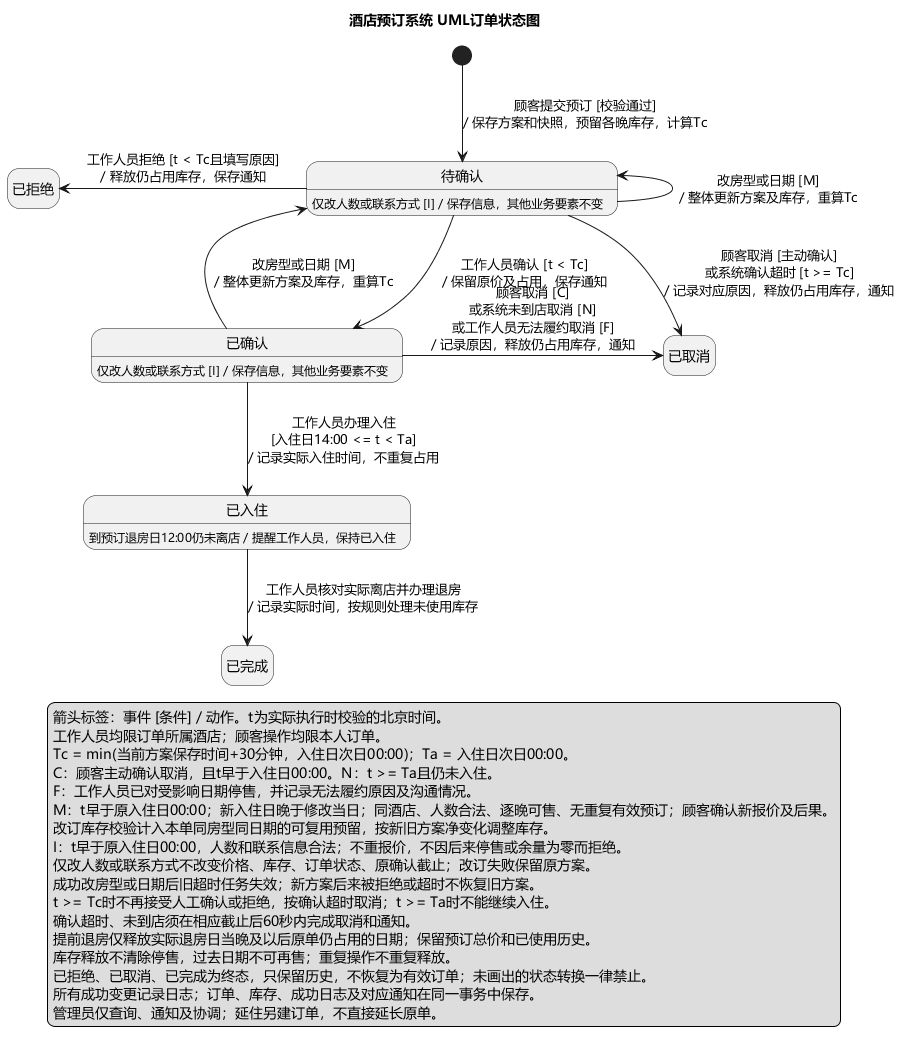
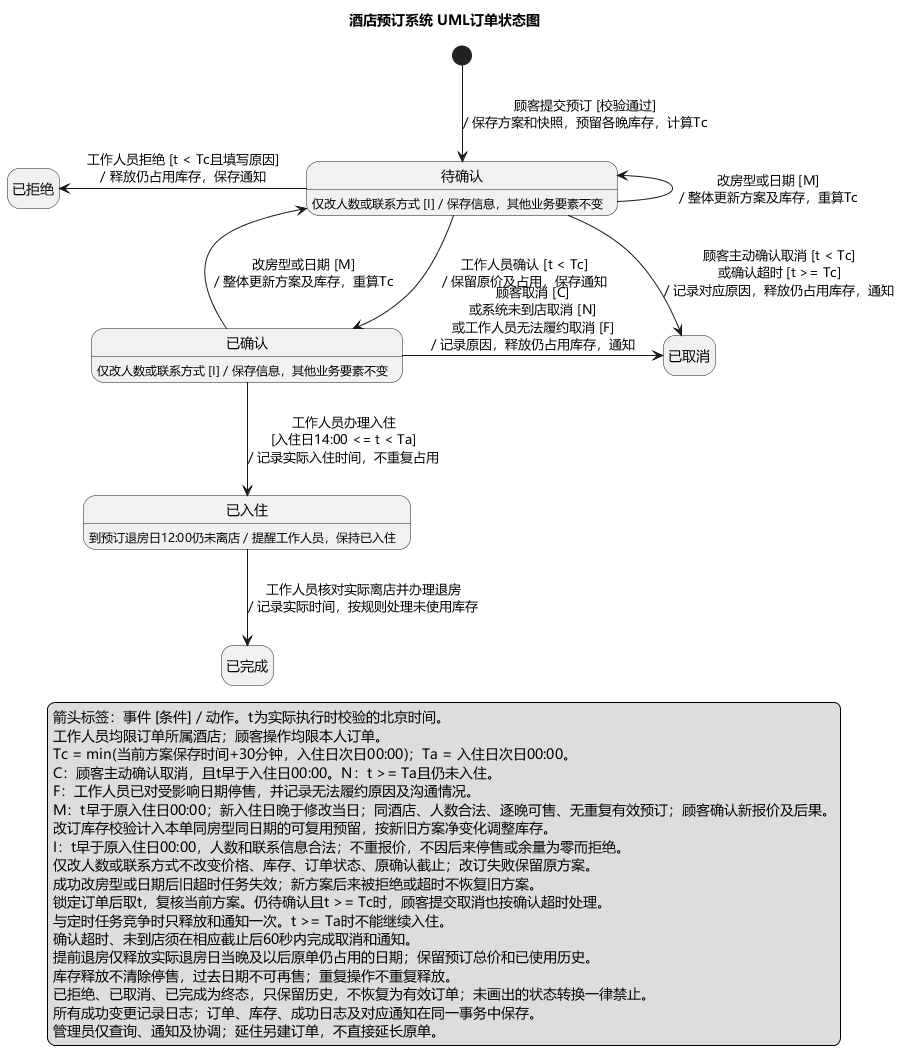
按学生采纳的四项审阅意见修订需求、UML 与界面

diff --git a/实验二/03-UI页面清单与样式.md b/实验二/03-UI页面清单与样式.md
@@ -1,6 +1,7 @@
 # 酒店预订系统UI页面清单与统一样式
 
-版本 V0.12（AI设计初稿，待审查）  
+版本 V0.13（按审阅意见修订）
+
 2026-11-11 更新。UI01 至 UI16 的主要页面及关键状态已绘制为桌面浏览器静态设计稿。
 
 ## 页面清单
@@ -9,8 +10,8 @@
 |---|---|---|---|---|
 | UI01 | 登录 | 三类角色，M01 | 登录名、密码、注册入口、暂停后的重试时间 | 初稿完成，含登录暂停 |
 | UI02 | 顾客注册 | 顾客，M01 | 登录名、密码、确认密码、字段校验、返回登录 | 初稿完成，含登录名重复 |
-| UI03 | 房源查询 | 顾客，M04；读取M02/M03 | 城市、日期、人数、房型、住宿总价、逐晚价格、区间余房、排序及空结果 | 本轮初稿 |
-| UI04 | 提交预订 | 顾客，M05 | 入住信息、酒店房型资料、逐晚费用及总价、报价变化确认、到店付款 | 本轮初稿，含价格变化和提交成功状态 |
+| UI03 | 房源查询 | 顾客，M04；读取M02/M03 | 城市、可搜索的酒店、日期、人数、房型、住宿总价、逐晚价格、区间余房、排序及空结果 | 已按审阅意见修订 |
+| UI04 | 提交预订 | 顾客，M05 | 入住信息、酒店房型资料、逐晚费用及总价、报价变化确认、到店付款 | 含价格变化、提交成功及结果核实状态 |
 | UI05 | 我的订单 | 顾客，M05 | 订单列表、状态、详情入口 | 初稿完成，含无匹配结果 |
 | UI06 | 订单详情 | 顾客，M05/M08 | 保存的方案、逐晚价格、状态和截止、合法操作、取消确认弹窗 | 初稿完成，含取消确认及取消成功 |
 | UI07 | 修改预订 | 顾客，M05 | 新旧方案对照确认；人数联系方式独立编辑；旧页面冲突反馈 | 初稿完成，含新旧方案确认、仅修改信息；冲突反馈已写约定 |
@@ -41,7 +42,7 @@
 
 ## UI03 房源查询页
 
-用户选择城市、入住退房日期和人数，在侧栏限定房型及本次住宿总价，查看整段住宿可售的房源。卡片展示酒店、区域、房型、床型、人数上限、逐晚价格、住宿总价及区间可售余房，提供详情和单间预订入口。
+目的地旁的酒店选择器默认显示“全部酒店”。用户可按名称检索本市酒店，选中后按酒店标识筛选；切换城市时清空原选择。用户选择入住退房日期和人数，在侧栏限定房型及本次住宿总价，查看整段住宿可售的房源。卡片展示酒店、区域、房型、床型、人数上限、逐晚价格、住宿总价及区间可售余房，提供详情和单间预订入口。
 
 本批为静态界面设计稿，按钮、筛选控件和导航未连接真实业务。SVG中的文字、图形和分组可继续编辑；PNG用于展示。房型图片为原创矢量示意，不是实际酒店照片。示例用户、酒店及地址均为演示数据。
 
@@ -53,7 +54,7 @@
 | 南京云庭酒店 | 舒适双床房 | 298元 / 5间 | 328元 / 1间 | 626元 | 1间 |
 | 南京溪畔酒店 | 景观大床房 | 358元 / 3间 | 388元 / 3间 | 746元 | 3间 |
 
-全部示例房型最多入住2人，示例日期均未停售。总价为两晚之和，整段余房为两晚余量最小值。空结果图仅将总价上限改为500元，其他条件一致，因此没有匹配项，不显示虚构可订结果。
+全部示例房型最多入住2人，示例日期均未停售。总价为两晚之和，整段余房为两晚余量最小值。默认图展示三家酒店。在“指定酒店”图中选中南京栖岸酒店，仅显示总价556元、连续可售2间的舒适大床房。在“无结果”图中保留该酒店，将总价上限降至500元，结果为0；清除价格限制可恢复该房型。
 
 关键交互约定：点击查询/应用价格筛选后重新查询；筛选控件本身不保留库存；“预订1间”进入UI04；点击详情可打开房源详情抽屉（后续设计）；清除价格限制将取消价格筛选。提交时重新校验价格、库存和权限。本轮未实现这些交互。
 
@@ -71,12 +72,13 @@
 - 下方说明酒店确认时限、超时取消、顾客取消及未到店处理。确认截止取成功提交后30分钟与入住日次日00:00的较早者；实际截止在成功页显示。
 - 成功页属于UI04的提交反馈，提供订单详情入口；不替代后续UI06完整订单详情页面。
 
-### 三张设计稿
+### UI04 的四种状态
 
 | 文件 | 状态与说明 |
 |---|---|
 | 04_提交预订.png | 初始填写状态，联系电话尚未填入；提交时须先校验必填信息 |
 | 04_提交预订_价格变化确认.png | 信息已填后提交遇到改价，第二晚288元变308元，总价556元变576元；并列逐晚新旧报价，提供返回修改及主动同意新报价重新提交 |
+| 04_提交预订_结果核实中.png | 提交后连接中断，显示本次行程和提交时报价，通过“查询本次结果”核实订单。 |
 | 04_提交预订_提交成功.png | 按原价556元成功的独立示例分支；显示订单号、待确认、保留房间、提交时间和截止时间，提供查看详情及返回查询 |
 
 成功示例在2026-11-10 15:20提交，确认截止为当日15:50（北京时间）。价格变化图和成功图是两个独立分支，不能误解为同意576元后仍按556元保存；若新报价被接受并成功，成功页及订单快照均应显示实际接受的576元。酒店、联系人、电话和订单号仅为演示数据，未创建任何真实订单。
@@ -87,10 +89,10 @@
 2. 提交中按钮显示“正在提交…”并暂不可重复点击；服务端仍须按时序设计校验身份、报价、日期、库存和重复预订，不能只依靠前端按钮防重。
 3. 收到明确的价格变化结果时，展示对比弹窗，不默认勾选同意，不创建订单或占用库存。返回修改或关闭弹窗保留联系信息；主动同意后携新报价重新提交，仍复核当前价格与库存。弹窗应限制键盘焦点，关闭后恢复至提交入口。
 4. 无房、停售或酒店房型不可用时，明确提示未完成本次预订，提供返回查询入口；失败不留下部分日期占用。重复有效预订时引导查看本人已有订单。
-5. 登录失效时引导重新登录；重新登录后按当前身份再次核对数据。服务器未确认结果的网络中断显示“正在核实提交结果”，使用原请求标识查询；不得直接提示已失败或已释放房间，也不得盲目新建订单。
+5. 登录失效时引导重新登录；重新登录后按当前身份再次核对数据。服务器未确认结果的网络中断显示“正在核实本次预订结果”。“查询本次结果”只读查询本人、创建操作及原请求键。查到后显示原订单号和最新状态，暂未查到或网络仍中断则保留核实页面，允许稍后再查。
 6. 只有收到明确创建成功的结果，才展示订单号和“待确认”成功页；该页不使用“酒店已确认”的措辞。订单详情读取当前状态，处理结果通知保留当时事件；首次创建不伪造一条酒店确认通知。
 
-本轮实现的是三张静态SVG/PNG设计稿。上述点击、输入校验、焦点管理、网络异常和状态跳转属于后续交互原型/开发约定，尚未实现或逐一绘制。全部源码位于UI界面/源文件；生成与本地导出工具位于工具目录。
+UI04共四张静态SVG/PNG设计稿。上述点击、输入校验、焦点管理、网络异常和状态跳转属于后续交互原型/开发约定，尚未实现或逐一绘制。全部源码位于UI界面/源文件；生成与本地导出工具位于工具目录。
 
 ## UI05 我的订单页
 
@@ -139,7 +141,7 @@
 
 1. 点击取消仅打开弹窗，不执行取消。弹窗明确展示酒店、房型、入住及退房日期；“保留预订”关闭弹窗，不因本次操作改变订单，酒店独立处理或自动到期仍可发生。
 2. 默认焦点放在“保留预订”，不能默认同意取消；键盘焦点限制在弹窗内，Esc关闭后恢复到原触发位置。最终取消按钮使用红色并明确文字，不能仅依靠颜色区分。
-3. 点击“确认取消预订”后才发送请求，处理中禁止重复点击。服务端重新检查本人归属、当前状态、内容版本及实际时限；待确认超时按超时取消规则处理，已确认订单须在入住日00:00前才可由顾客取消。
+3. 点击“确认取消预订”后才发送请求，处理中禁止重复点击。服务端重新检查本人归属、当前状态、内容版本及实际时限；例如15:49打开弹窗，锁后校验已到15:50确认截止，订单仍待确认时返回“已取消（确认超时）”，只释放和通知一次。已确认订单须在入住日00:00前才可由顾客取消。
 4. 明确取消成功后刷新为已取消，展示实际原因及处理时间；保存历史、释放仍占用的预留并生成对应系统内通知。金额保留为原订单金额，不表示应付或退款金额。
 5. 若订单已入住或超过允许时限，提示原因并更新页面，不能假装取消成功。请求结果未知时显示正在核实，使用原请求标识核查；重复取消只反馈已有结果。
 

diff --git a/实验一/requirements.md b/实验一/requirements.md
@@ -2,7 +2,7 @@
 
 仓库地址：https://github.com/guyuezheng18-cell/-hotel-booking-labs.git
 
-版本：V1.5　日期：2026-10-29
+版本：V1.6　日期：2026-11-11（实验二设计审阅修订，原提交版为 V1.5）
 
 ## REQ-001 用户账号与身份识别
 
@@ -75,11 +75,11 @@
 - 来源：INT-01-L010；INT-01-L022；INT-02-L008；INT-02-L014；REV-005（余房展示补充）；本次需求确认（2026-10-29）。
 - 优先级：高
 - 状态：已确认
-- 需求描述：顾客可以组合城市、入住日期、退房日期、人数、房型及本次住宿总价范围查询房源，并按总价排序。查询结果显示酒店、房型、逐晚价格、住宿总价及可售余房；住宿总价为预订区间内各晚价格之和。住宿区间每晚均可售时，结果页的“可售余房”为区间内各晚可售余量的最小值，表示整段住宿可连续提供的房间数量；每笔订单仍只订一间房。
+- 需求描述：顾客可以组合城市、酒店（可选）、入住日期、退房日期、人数、房型及本次住宿总价范围查询房源，并按总价排序。酒店默认为“全部酒店”。按名称检索当前城市的酒店，选中后按酒店标识限定结果；切换城市时重置为全部酒店。查询结果显示酒店、房型、逐晚价格、住宿总价及可售余房；住宿总价为预订区间内各晚价格之和。住宿区间每晚均可售时，结果页的“可售余房”为区间内各晚可售余量的最小值，表示整段住宿可连续提供的房间数量；每笔订单仍只订一间房。
 - 前置条件：查询的入住日不早于查询当日、退房日晚于入住日，人数为正整数；所查询的酒店、房型及逐日数据可用。
 - 正常结果：结果满足全部筛选条件和入住人数限制，住宿区间每一晚均未停售且有可售余量；总价为各晚价格之和，排序与总价一致；可售余房取各晚可售余量的最小值。合法查询没有匹配房源时返回空结果并明确提示。
 - 异常或边界情况：人数超限、日期不合法、任一晚无房或停售时，不能显示为可订房源；不得查询并预订已经过去的入住日期。查询结果不代表已经保留库存，实际提交仍要复核。
-- 验收方法：准备不同城市、房型和逐日价格，组合查询并人工核对总价及排序；检查跨月住宿、中间一晚无房或停售、人数超限、过去日期、退房不晚于入住和合法空结果。连续三晚可售余量分别为5、1、3间时，整段住宿显示1间；不得将余房相加或只采用某一晚数量。任一晚为0或停售时，判定整段住宿不可订。
+- 验收方法：准备不同城市、房型和逐日价格，组合查询并人工核对总价及排序；检查跨月住宿、中间一晚无房或停售、人数超限、过去日期、退房不晚于入住和合法空结果。连续三晚可售余量分别为5、1、3间时，整段住宿显示1间；不得将余房相加或只采用某一晚数量。任一晚为0或停售时，判定整段住宿不可订。南京、11月20日至22日、2人，选择南京栖岸酒店时，只返回该店符合条件的房型。两晚268与288元、余4与2间时，总价556元、可订2间；总价上限500元时返回空结果。
 - 关联需求：REQ-004、REQ-005、REQ-007、REQ-008、REQ-019。
 
 ## REQ-007 提交预订与订单快照
@@ -153,11 +153,11 @@
 - 来源：INT-01-L004；INT-01-L010；INT-01-L014；INT-01-L018；INT-02-L002；INT-03-L004；INT-03-L006；本次需求确认（2026-10-29）。
 - 优先级：高
 - 状态：已确认
-- 需求描述：顾客可以取消自己的待确认订单；已确认订单仅可在入住日00:00之前由顾客取消。执行前展示酒店、房型、入住日期和退房日期，明确提示取消后无法恢复、重新预订须另行下单，由顾客主动确认后提交。取消成功后订单进入“已取消”，保留历史并释放预留库存；本版到店付款，不执行线上退款。
+- 需求描述：顾客可以在当前方案确认截止前取消自己的待确认订单；已确认订单仅可在入住日00:00之前由顾客取消。执行前展示酒店、房型、入住日期和退房日期，明确提示取消后无法恢复、重新预订须另行下单，由顾客主动确认后提交。取消成功后订单进入“已取消”，保留历史并释放预留库存；本版到店付款，不执行线上退款。
 - 前置条件：订单属于当前顾客，顾客已完成取消前的信息核对和主动确认；实际执行时订单仍处于允许取消的状态，并满足对应时间条件。
 - 正常结果：取消状态、历史及库存同步更新；原订单仍可查询，不能恢复为有效预订。顾客可查看取消结果，系统内通知的统一细则见REQ-023。
-- 异常或边界情况：未点击最终确认而返回或关闭页面，不执行本次取消，也不因本次操作改变订单和库存。点击最终确认时重新检查最新状态及时间；若已入住或超过已确认订单的顾客取消截止时间，拒绝执行，提示不能取消的原因并更新页面所示状态。已完成或已拒绝订单不能取消；重复取消只反馈当前结果，不重复释放。顾客自行取消的时间限制不影响REQ-013的未到店处理或REQ-015的无法履约处理，各取消原因分别记录。
-- 验收方法：检查取消前展示的酒店、房型、入住退房日期及不可恢复提示与订单一致；进入确认页面后返回，在没有其他业务事件的条件下核对订单及库存未变。主动确认后检查合法取消成功且仅释放一次；打开页面后跨过取消截止，或订单已由其他操作办理入住，再提交应被拒绝并显示最新状态。验证取消他人订单及已入住、已完成、已拒绝订单均失败。
+- 异常或边界情况：未点击最终确认而返回或关闭页面，不执行本次取消，也不因本次操作改变订单和库存。点击最终确认时重新检查最新状态及时间；若已入住或超过已确认订单的顾客取消截止时间，拒绝执行，提示不能取消的原因并更新页面所示状态。若锁后仍待确认且已到当前方案确认截止，按REQ-010记录“确认超时”，反馈最新状态。已完成或已拒绝订单不能取消；重复取消只反馈当前结果，不重复释放。顾客自行取消的时间限制不影响REQ-013的未到店处理或REQ-015的无法履约处理，各取消原因分别记录。
+- 验收方法：检查取消前展示的酒店、房型、入住退房日期及不可恢复提示与订单一致；进入确认页面后返回，在没有其他业务事件的条件下核对订单及库存未变。主动确认后检查合法取消成功且仅释放一次；打开页面后跨过取消截止，或订单已由其他操作办理入住，再提交应被拒绝并显示最新状态。确认截止为15:50时，15:49打开弹窗、锁后校验已到15:50，应按确认超时取消；与定时任务并发时只释放一次、产生一条超时通知。验证取消他人订单及已入住、已完成、已拒绝订单均失败。
 - 关联需求：REQ-002、REQ-008、REQ-009、REQ-013、REQ-015、REQ-016、REQ-023。
 
 ## REQ-013 办理入住与未到店处理

diff --git a/实验二/01-功能与模块划分.md b/实验二/01-功能与模块划分.md
@@ -1,8 +1,11 @@
 # 酒店预订系统功能与模块划分
 
-版本：V0.1（AI辅助初稿，待学生审查）  
-日期：2026-11-08  
-需求依据：实验一 requirements.md V1.5，REQ-001 至 REQ-023。  
+版本：V0.2（按审阅意见修订）
+
+日期：2026-11-11
+
+需求依据：实验一 requirements.md V1.6，REQ-001 至 REQ-023。
+
 用途：为实验二的软件架构、UML和UI设计提供统一的功能边界与需求对应关系。
 
 ## 一 项目范围与主要功能
@@ -34,7 +37,7 @@
 | M01 | 账号与权限管理 | 顾客注册，登录退出，工作人员账号创建与酒店绑定，账号停用，角色及数据范围校验，登录失败暂停 | REQ-001、002、020 |
 | M02 | 酒店与房型管理 | 管理多家酒店及停用状态，维护名称、城市、地址、电话；维护所属房型的名称、床型、人数上限 | REQ-003、004 |
 | M03 | 库存与房价管理 | 按房型和日期维护总数、价格、停售状态；查询逐日余量；统一处理逐晚占用、复用与释放 | REQ-005、008 |
-| M04 | 房源查询 | 按城市、日期、人数、房型、住宿总价组合筛选，展示逐晚价格、总价、区间可售余房，按总价排序 | REQ-006、019 |
+| M04 | 房源查询 | 按城市、酒店、日期、人数、房型、住宿总价组合筛选，展示逐晚价格、总价、区间可售余房，按总价排序 | REQ-006、019 |
 | M05 | 预订与订单管理 | 创建订单及快照，查询详情和历史，改订，顾客取消，酒店确认拒绝，统一状态变更、版本检查和重复请求处理，确认超时取消 | REQ-007、009、010、011、012、016 |
 | M06 | 入住与退房管理 | 核对并办理入住，未到店处理，正常与提前退房，延迟退房提醒及实际离店记录，支持衔接延住新预订 | REQ-013、014 |
 | M07 | 履约异常处理 | 确定受影响房型日期，组织停售、筛选受影响订单，记录无法履约原因和沟通情况，按状态协调处理 | REQ-015 |
@@ -62,7 +65,7 @@
 
 ### M04 房源查询
 
-查询只展示候选房源，不预留房间。整段住宿每晚均可售才返回可订结果，区间可售余房取各晚余量的最小值，例如5、1、3间显示1间；总价为各晚价格之和。提交预订时M05仍需调用M03复核库存与报价。
+可按名称搜索本市酒店，默认查询全部酒店。选定酒店后按其标识与其余条件组合筛选。查询只展示候选房源，不预留房间。整段住宿每晚均可售才返回可订结果，区间可售余房取各晚余量的最小值，例如5、1、3间显示1间；总价为各晚价格之和。提交预订时M05仍需调用M03复核库存与报价。
 
 ### M05 预订与订单管理
 
@@ -76,7 +79,7 @@
 - 有效确认截止为“当前方案成功提交时间＋30分钟”与“入住日次日00:00”较早者；到达截止后禁止人工确认或拒绝，统一按超时取消处理，并在一分钟内完成取消和通知。
 - 修改须在原入住日00:00之前，修改后的入住日须晚于修改当日。改房型或日期需新旧方案对照、重新报价与主动确认，成功后回到待确认、重算截止并整体更新库存；同房型同日期可复用原预留。失败保留原方案；新方案后来被拒绝或超时不恢复旧方案。
 - 仅修改人数或联系方式仍须校验权限、状态、时间及信息有效性，但不改变价格、库存、状态或截止，也不因后来改价、停售、可售余量为零而拒绝。
-- 顾客可取消自己的待确认订单；已确认订单仅可在入住日00:00之前取消。执行前展示订单信息和不可恢复提示，取得主动确认，最终提交重新校验。
+- 顾客可在当前方案确认截止前取消自己的待确认订单；已确认订单仅可在入住日00:00之前取消。执行前展示订单信息和不可恢复提示，取得主动确认，最终提交重新校验。
 
 ### M06 入住与退房管理
 
